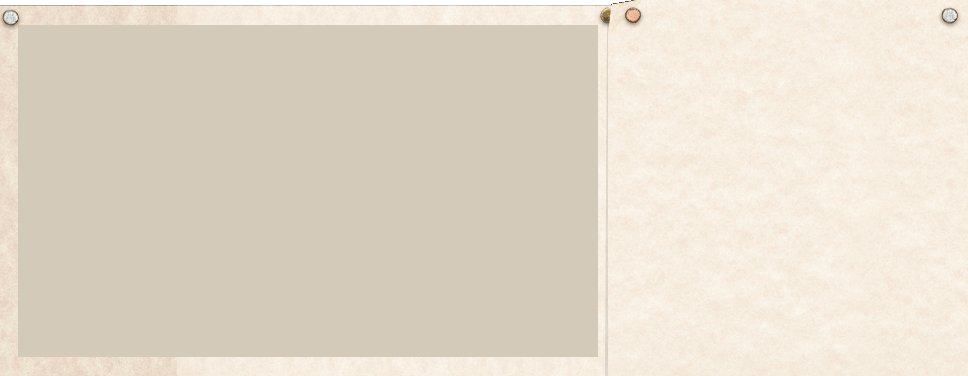
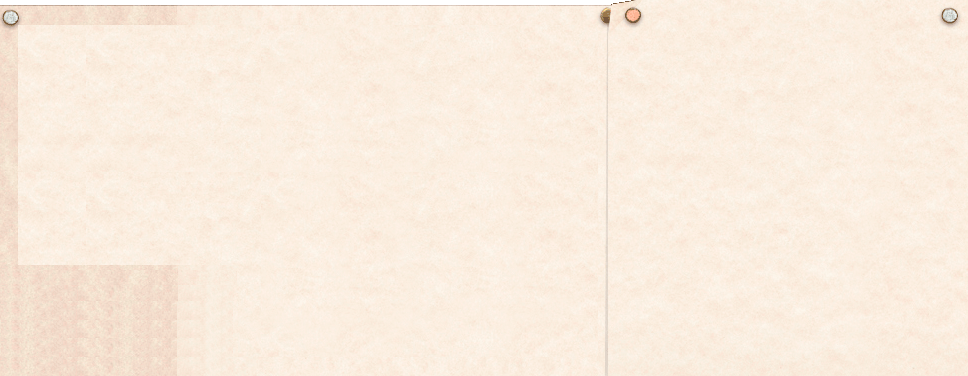
Stub in almanac pagination for homepage, other minor homepage tweaks

diff --git a/communityalmanac/public/css/style.css b/communityalmanac/public/css/style.css
@@ -951,6 +951,7 @@ body.home #intro .map input#almanac-submit {
 background: url(/img/bttn-bg-blue.jpg) top left repeat;
 width: 100%;
 color: #fff;
+border-width: 0 4px 4px;
 }
 
 ul#almanacs {
@@ -1073,6 +1074,41 @@ background: url(/img/comments-icon.png) 0 50% no-repeat;
 div#shelf {
 height: 80px;
 background: url(/img/shelf-bg.png) repeat-x;
+padding: 15px 0 0;
+overflow: hidden;
+}
+
+div#almanac-pagination-footer {
+background: #b2b32d url(/img/bttn-bg-pea.jpg) repeat;
+color: #340f03;
+margin: 0 0 0 10%;
+position: relative;
+font-size: 1.2em;
+line-height: 1em;
+padding: 0.5em;
+width: 684px;
+}
+
+div#almanac-pagination-footer .prev {
+display: block;
+position: absolute;
+top: 0;
+left: 0;
+bottom: 0;
+background: #033459 url(/img/bttn-bg-navy.jpg) repeat;
+padding: 0.5em;
+text-decoration: none;
+}
+
+div#almanac-pagination-footer .next {
+display: block;
+position: absolute;
+top: 0;
+right: 0;
+bottom: 0;
+background: #033459 url(/img/bttn-bg-navy.jpg) repeat;
+padding: 0.5em;
+text-decoration: none;
 }
 
 /* rob's starting point */
